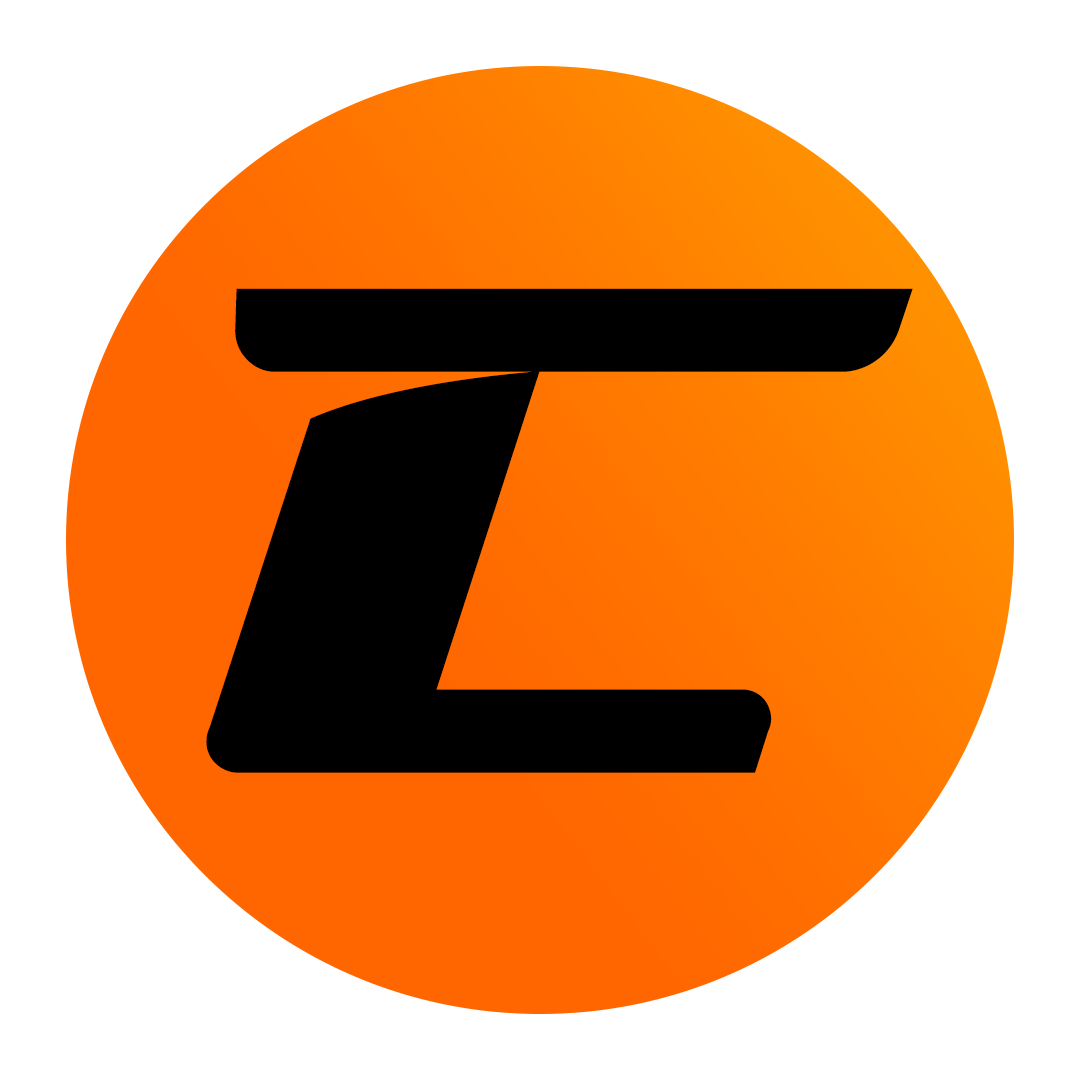
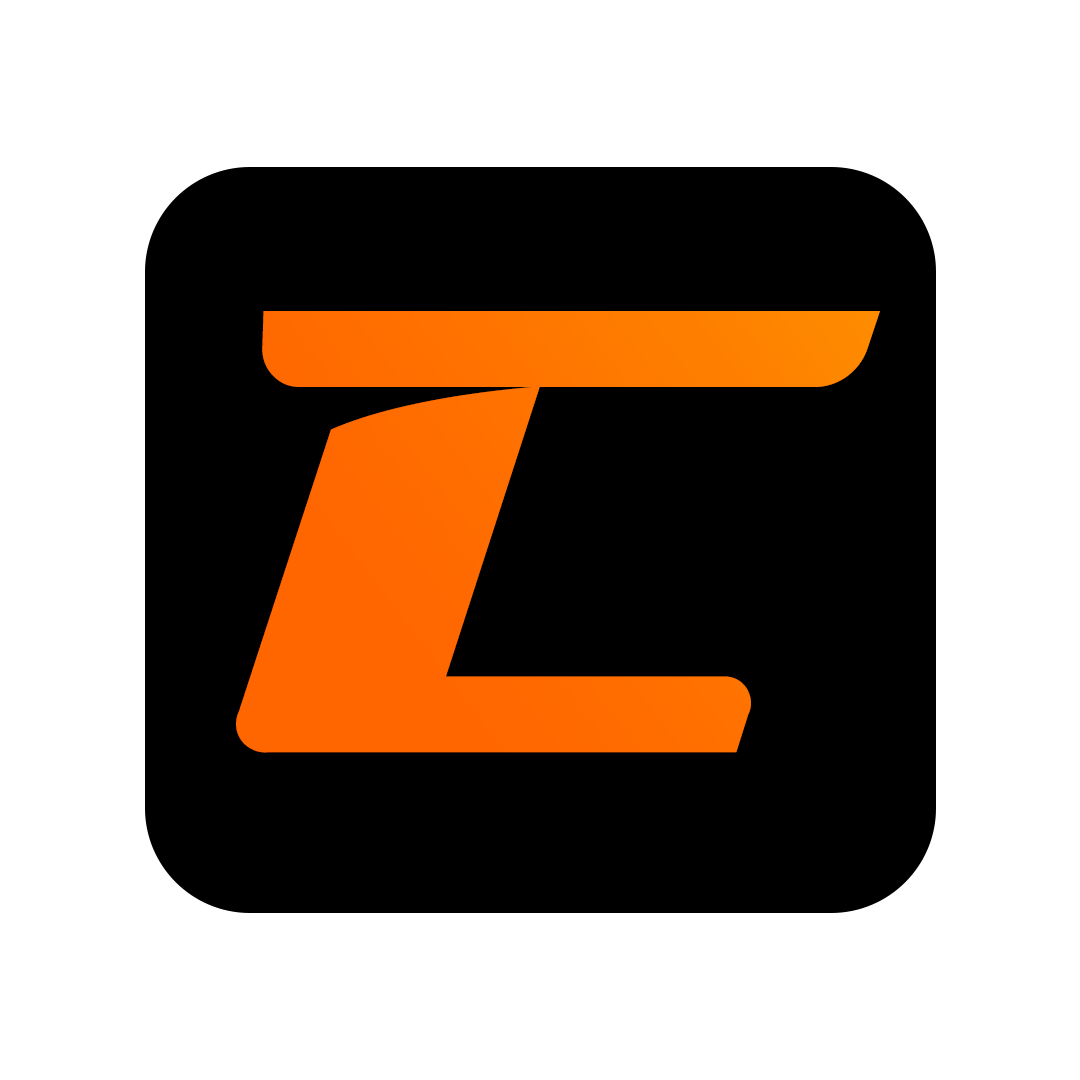
add

diff --git a/public/js/core.min.js b/public/js/core.min.js
@@ -121,8 +121,6 @@
  * @see          http://www.mattvarone.com/web-design/uitotop-jquery-plugin/
  * @license      MIT
  */
-!function(o){o.fn.UItoTop=function(n){var e={text:"",min:500,scrollSpeed:800,containerID:"ui-to-top",containerClass:"ui-to-top fa fa-angle-up",easingType:"easeIn"},t=o.extend(e,n),i="#"+t.containerID;o("body").append('<a href="#" id="'+t.containerID+'" class="'+t.containerClass+'" >'+t.text+"</a>"),o(i).click(function(){return o("html, body").stop().animate({scrollTop:0},t.scrollSpeed,t.easingType),!1}),o(window).scroll(function(){var n=o(window).scrollTop();"undefined"==typeof document.body.style.maxHeight&&o(i).css({position:"absolute",top:o(window).scrollTop()+o(window).height()-50}),n>t.min?o(i).stop(!0,!0).addClass("active"):o(i).removeClass("active")})}}(jQuery);
-
 /**
  * @module       Swiper
  * @description  Most modern mobile touch slider and framework with hardware accelerated transitions

diff --git a/public/css/style.css b/public/css/style.css
@@ -17205,7 +17205,7 @@ html.rd-navbar-fixed-linked .page {
 }
 
 .rd-navbar-classic.rd-navbar-static.rd-navbar--is-stuck, .rd-navbar-classic.rd-navbar-static.rd-navbar--is-clone {
-	background: #000;
+	background: 	#F66604;
 }
 
 .rd-navbar-classic.rd-navbar-static.rd-navbar--is-stuck .rd-navbar-panel,

diff --git a/resources/views/chances.blade.php b/resources/views/chances.blade.php
@@ -1,7 +1,7 @@
 @extends('layouts.app')
 @section('content')
         <!-- Swiper-->
-        <section class="section section-md bg-gray-100" style="margin-top: -30px;">
+        <section class="section section-md " style="margin-top: -30px;">
             <div class="container">
                 <!-- Heading Component-->
                 <article class="heading-component">
@@ -13,7 +13,7 @@
                     <div class="col-lg-12">
                         <div class="card text-center" style="border: 4px solid #fe944d; border-radius: 30px;">
                             <div class="card-header" style="text-align: center">
-                                <h5 style="font-size: 1.0em;"><img src="images/{{ strtolower(trim($timecasa)) }}.png">
+                                <h5 style="font-size: 1.0em; color: black"><img src="images/{{ strtolower(trim($timecasa)) }}.png">
                                     {{ $timecasa }} x {{ $timefora }}
                                     <img src="images/{{ strtolower(trim($timefora)) }}.png"></h5>
                             </div>
@@ -22,7 +22,7 @@
                                 <div class="grid text-center">
                                     <div class="row">
                                         <div class="col-12">
-                                            <h6>Chances <span style="color: green;">{{ $probabilidade*100 }}%</span></h6>
+                                            <h6 style="font-size: 1.0em; color: black">Chances <span style="color: green;">{{ $probabilidade*100 }}%</span></h6>
                                             <div class="col-md">
                                                 <p>
                                                     <li class="list-group-item" style="background-color:#e4e4e4;border-radius: 10px">{{ $frase1 }}</li>
@@ -41,7 +41,7 @@
                 </div>
             </div>   
         </section>
-        <section class="section section-md bg-gray-100">
+        <section class="section section-md">
             <div class="container">
                 <div style="align-items: center">
                     <article class="heading-component">
@@ -49,11 +49,11 @@
                             <h5 class="heading-component-title">Campeonato Brasileiro</h5>
                         </div>
                     </article>
-                    <div class="table-custom-responsive">
-                        <table class="table table-hover table-bordered">
-                            <thead class="table-dark">
+                    <div class="table-custom-responsive" style="border-radius: 20px; overflow: hidden">
+                        <table class="table table-hover bg-gray-100">
+                            <thead class="table-light">
                                 <tr>
-                                    <th>#</th>
+                                    <th style="border-top-left-radius: 20px;">#</th>
                                     <th colspan="2">Time</th>
                                     <th>P</th>
                                     <th>J</th>
@@ -63,7 +63,7 @@
                                     <th>GP</th>
                                     <th>GC</th>
                                     <th>SG</th>
-                                    <th>%</th>
+                                    <th style="border-top-right-radius: 20px;">%</th>
                                 </tr>
                             </thead>
                             <tbody>
@@ -79,12 +79,10 @@
                                     @elseif($index > 16) <!-- Ajuste conforme o total de times -->
                                         cell-bottom-four
                                     @endif" >{{ $index }}</td>
-                                    <!-- Incorporar a imagem ao lado do nome do time na mesma célula -->
-                                    <td >
+                                    <td>
                                         <img src="images/chances-images/{{ strtolower($row[1]) }}.png" style="height: 25px; vertical-align: middle; margin-right: 5px;">
                                         {{ $row[1] }} <!-- Nome do time -->
                                     </td>
-                                    <!-- Loop através de outras células excluindo a primeira que contém o nome -->
                                     @foreach ($row as $cell_index => $cell)
                                     @if ($cell_index != 1) <!-- Pular o índice do nome do time para não duplicar -->
                                         <td>{{ $cell }}</td>
@@ -94,24 +92,24 @@
                                 @endif
                                 @endforeach
                             </tbody>
-                            <tfoot>
+                            <tfoot class="table-light">
                                 <tr>
-                                    <td colspan="3">
+                                    <td colspan="3" style="border-bottom-left-radius: 20px;">
                                         <div class="color-box" style="background-color:#2161c7"></div>
                                         Fase de grupos da Copa Libertadores
                                     </td>
-                                
+                                    
                                     <td colspan="3">
                                         <div class="color-box" style="background-color:#d07026"></div>
                                         Qualificatórias da Copa Libertadores
                                     </td>
-                               
+                                   
                                     <td colspan="3">
                                         <div class="color-box" style="background-color:#1fbe4a"></div>
                                         Fase de grupos da Copa Sul-Americana
                                     </td>
-                              
-                                    <td colspan="3">
+                                  
+                                    <td colspan="3" style="border-bottom-right-radius: 20px;">
                                         <div class="color-box" style="background-color:#d42a18"></div>
                                         Rebaixamento
                                     </td>
@@ -119,6 +117,7 @@
                             </tfoot>
                         </table>
                     </div>
+                    
                 </div>
             </div>
         </section>

diff --git a/resources/views/layouts/header.blade.php b/resources/views/layouts/header.blade.php
@@ -14,12 +14,12 @@
             <div class="rd-navbar-main">
                 <div class="container text-center">
                     <div class="row justify-content-start">
-                        <div class="col-12" style="padding: 10px">
+                        <div class="col-12">
                             <a href="./" class="d-flex align-items-center">
-                                <img src="images/logo-soccer-default-95x126.png" alt="" width="70" height="100" />
-                                <h6 class="font-nitrous-oxides" style="padding: 6.5px 0px 0px 0px">
-                                    <span style="color: #000; margin-left: -30px">Chances</span><br>
-                                    <span style="color: #fff">do Vitória</span>
+                                <img src="images/icone.png" alt="" width="55"/>
+                                <h6 class="font-nitrous-oxides" style="align-items: center;padding: 2px 0px 0px 0px">
+                                    <span style="color: #fff; margin-left: -30px">Chances</span><br>
+                                    <span style="color: #000">do Vitória</span>
                                 </h6>
                             </a>
                         </div>
